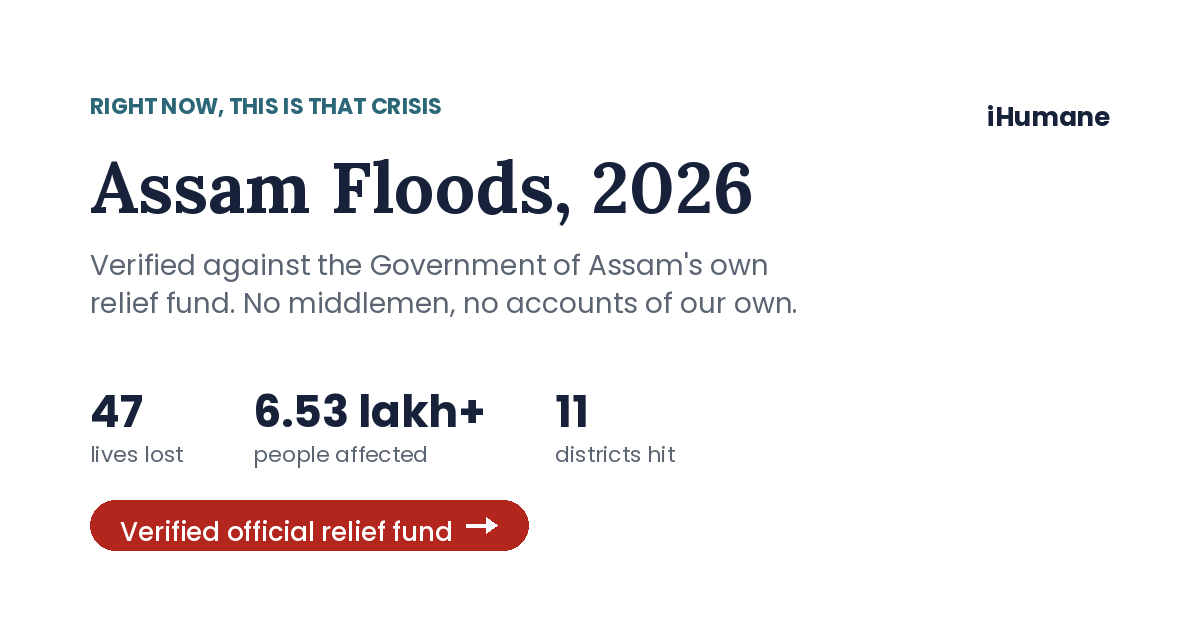
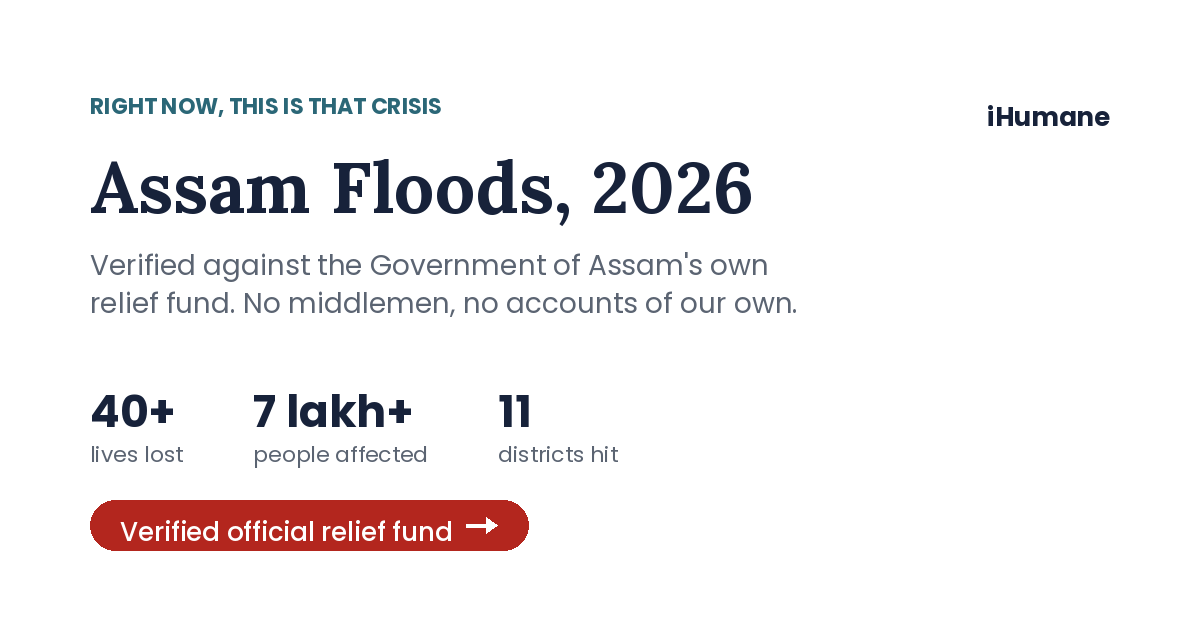
Make crisis facts generic and cited; add visitor counter
- Drop 'cloudburst' framing: IMD has denied cloudburst claims for this
  event; reframed as 'unprecedented rainfall over Nagaland's hills'
- Numbers generalized (More than 40 dead, More than 7 lakh affected)
  instead of pinned figures that shift day to day across sources
- Added source citations (Business Standard, EastMojo) and a note that
  figures vary by report and are still developing
- Corrected 'official source' card: bank details are from
  cm.assam.gov.in, situation figures are from ASDMA-sourced reporting
- Regenerated OG image with updated generic figures
- Added a lightweight visitor counter badge to homepage + assamfloods
  footers (no signup required)

Changed region(s): [[0.2158, 0.6032, 0.555, 0.754], [0.0925, 0.6333, 0.1542, 0.6937]]

diff --git a/site/assamfloods.html b/site/assamfloods.html
@@ -313,7 +313,7 @@
           "@type": "Place",
           "name": "Assam, India"
         },
-        "description": "Heavy flooding across Assam, worsened by a cloudburst in neighbouring Nagaland, has affected over 6.53 lakh people across 11 districts."
+        "description": "Severe flooding across Assam after unprecedented rainfall over the hill catchments of neighbouring Nagaland has affected more than 7 lakh people across 11 districts."
       },
       "mainEntity": {
         "@type": "DonateAction",
@@ -381,7 +381,7 @@
     <section class="cause" id="cause">
       <span class="eyebrow">Right now, this is that crisis</span>
       <h1>Assam Floods, 2026</h1>
-      <p class="lede">Heavy flooding across Assam, worsened by a cloudburst in neighbouring Nagaland, has affected over 6.53 lakh people across 11 districts. The official channel below is the Chief Minister's Relief Fund, Assam — the state government's own fund for flood relief.</p>
+      <p class="lede">Assam is facing severe flooding after unprecedented rainfall over the hill catchments of neighbouring Nagaland surged downstream into Assam's rivers. More than 7 lakh people across 11 districts have been affected. The official channel below is the Chief Minister's Relief Fund, Assam — the state government's own fund for flood relief.</p>
 
       <div class="cta-row">
         <a class="btn-primary" href="https://cm.assam.gov.in/donate" target="_blank" rel="noopener">Donate on the official site →</a>
@@ -401,15 +401,15 @@
         </a>
       </div>
 
-      <h2 class="subhead">Situation, as reported by ASDMA</h2>
+      <h2 class="subhead">Situation, as reported</h2>
       <div class="card">
         <div class="field-grid">
-          <div class="field"><span class="field-label">Lives lost</span><span class="field-value">47</span></div>
-          <div class="field"><span class="field-label">People affected</span><span class="field-value">6.53 lakh+ across 11 districts</span></div>
+          <div class="field"><span class="field-label">Lives lost</span><span class="field-value">More than 40</span></div>
+          <div class="field"><span class="field-label">People affected</span><span class="field-value">More than 7 lakh, across 11 districts</span></div>
           <div class="field"><span class="field-label">Worst-hit district</span><span class="field-value">Sivasagar</span></div>
-          <div class="field"><span class="field-label">Cause</span><span class="field-value">Cloudburst in Nagaland</span></div>
+          <div class="field"><span class="field-label">Cause</span><span class="field-value">Unprecedented rainfall over Nagaland's hills</span></div>
         </div>
-        <p class="info-note">Figures from the Assam State Disaster Management Authority, as reported 24 July 2026. The Chief Minister has said the toll is likely to rise — check ASDMA's own bulletins for live updates.</p>
+        <p class="info-note">Figures are drawn from ASDMA-sourced reporting as of 24 July 2026 and are still changing — check ASDMA's own bulletins for live updates. Some early reports called this a "cloudburst"; the India Meteorological Department has said the rainfall recorded did not meet the technical threshold for one, though it was still far above normal. Sources: <a href="https://www.business-standard.com/india-news/assam-flood-toll-rises-to-47-over-721-000-affected-across-11-districts-126072400025_1.html" target="_blank" rel="noopener">Business Standard</a>, <a href="https://eastmojo.com/premium/2026/07/23/how-torrential-rain-in-nagaland-devastated-upper-assam/" target="_blank" rel="noopener">EastMojo</a>.</p>
       </div>
 
       <h2 class="subhead">Give by bank transfer or UPI instead</h2>
@@ -462,8 +462,9 @@
         </div>
         <div class="card contact-card">
           <h3>Official source</h3>
-          <p>Every figure and detail above is drawn from:</p>
+          <p>Bank and donation details above are drawn from:</p>
           <p><a href="https://cm.assam.gov.in/donate" target="_blank" rel="noopener">cm.assam.gov.in/donate</a></p>
+          <p style="margin-top:8px;">Situation figures are drawn from ASDMA-sourced news reporting — see citations above.</p>
         </div>
       </div>
     </section>
@@ -471,6 +472,7 @@
     <footer>
       <p><strong>iHumane</strong> is an independent, unofficial initiative. It is not affiliated with, endorsed by, or operated by the Government of Assam. We do not collect, hold, or process donations — the "Donate" button and all account details above lead directly to the official Chief Minister's Relief Fund, Assam. Please verify details on <a href="https://cm.assam.gov.in/donate" target="_blank" rel="noopener">cm.assam.gov.in/donate</a> before giving.</p>
       <p style="margin-top:14px;"><a class="link-secondary" href="/">← Back to iHumane</a></p>
+      <p style="margin-top:16px;"><img src="https://hits.seeyoufarm.com/api/count/incr/badge.svg?url=https%3A%2F%2Fihumane.in%2Fassamfloods&count_bg=%232B6777&title_bg=%2317223A&icon=&icon_color=%23E7E7E7&title=visits&edge_flat=false" alt="Visitor count for this page" style="height:20px;vertical-align:middle;"></p>
     </footer>
   </main>
 

diff --git a/site/index.html b/site/index.html
@@ -211,6 +211,7 @@
     <footer>
       <p><strong>iHumane</strong> is an independent, unofficial initiative. We don't run relief efforts, collect donations, or hold funds ourselves — we verify official channels and point you to them directly.</p>
       <p style="margin-top:14px;font-style:italic;">I am human. So are they. That's reason enough.</p>
+      <p style="margin-top:16px;"><img src="https://hits.seeyoufarm.com/api/count/incr/badge.svg?url=https%3A%2F%2Fihumane.in%2F&count_bg=%232B6777&title_bg=%2317223A&icon=&icon_color=%23E7E7E7&title=visits&edge_flat=false" alt="Visitor count for this page" style="height:20px;vertical-align:middle;"></p>
     </footer>
   </main>
 </body>
